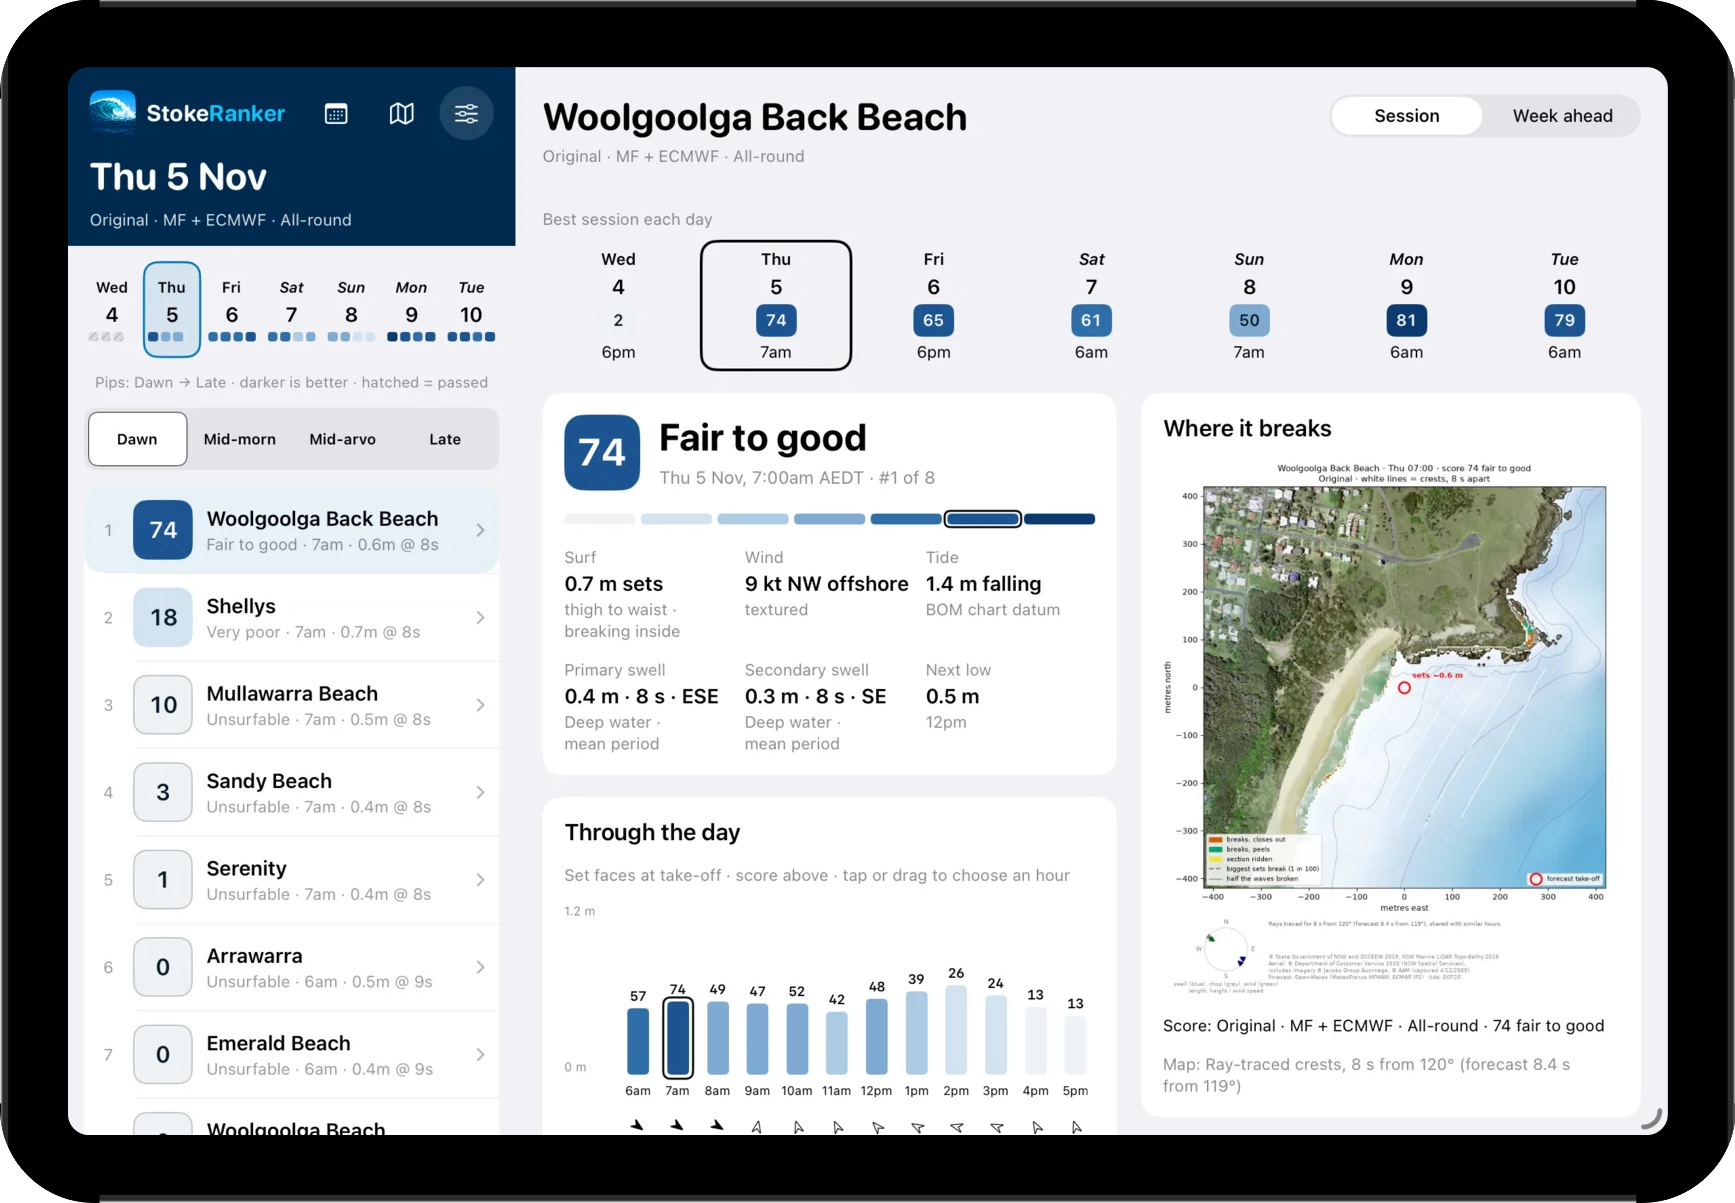
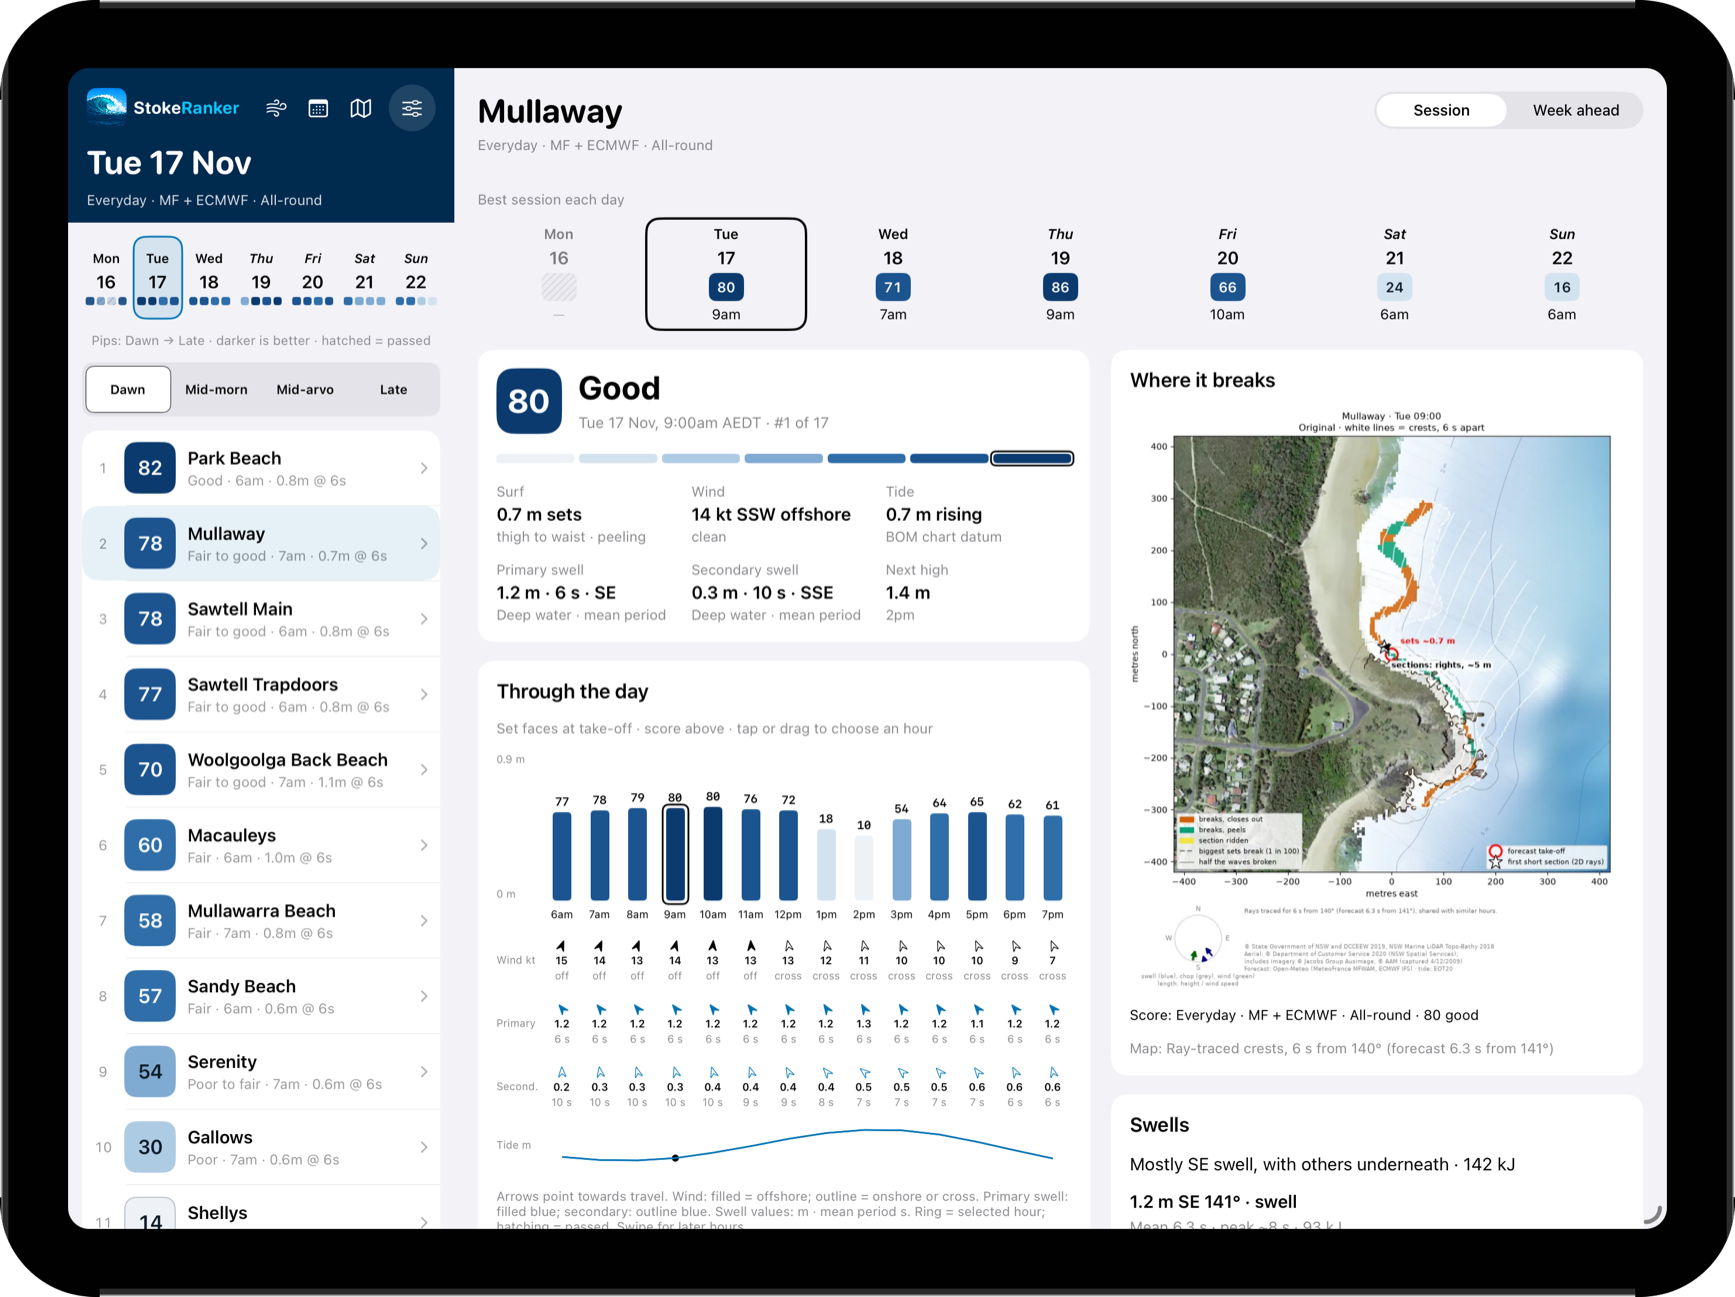
Break-page screenshot: Mullaway on a peeling morning
Tue 17 Nov 9am, Everyday model: the Where it breaks map shows the wave peeling
along the headland instead of closing out.

diff --git a/layouts/home.html b/layouts/home.html
@@ -58,7 +58,7 @@
 <section class="section tint">
   <div class="wrap row">
     <div class="row-copy"><p class="eyebrow">Every score has its reasons</p><h2>Open a break, see the working.</h2><p>Wave height at the take-off, wind, tide, and every swell in the water, the best session each day, and a map of where the waves are expected to break: wave crests traced in from the forecast swell over local seabed data.</p></div>
-    <figure class="row-shot">{{ partial "device.html" (dict "name" "ipad-break" "width" 720 "alt" "StokeRanker break page on iPad for Woolgoolga Back Beach on Thursday at 7am: score 74, fair to good, with 0.7 m sets, a 9 knot north-westerly offshore, a 1.4 m falling tide, an hourly chart, and a satellite map of the beach showing wave crests and where they are expected to break.") }}</figure>
+    <figure class="row-shot">{{ partial "device.html" (dict "name" "ipad-break" "width" 720 "alt" "StokeRanker break page on iPad for Mullaway on Tuesday at 9am: score 80, good, with 0.7 m sets peeling, a 14 knot south-south-westerly offshore, a 0.7 m rising tide, an hourly chart, and a satellite map of the headland showing wave crests and where they are expected to break and peel.") }}</figure>
   </div>
   <p class="wrap shots-note">Screenshots show an example forecast, not current conditions.</p>
 </section>
